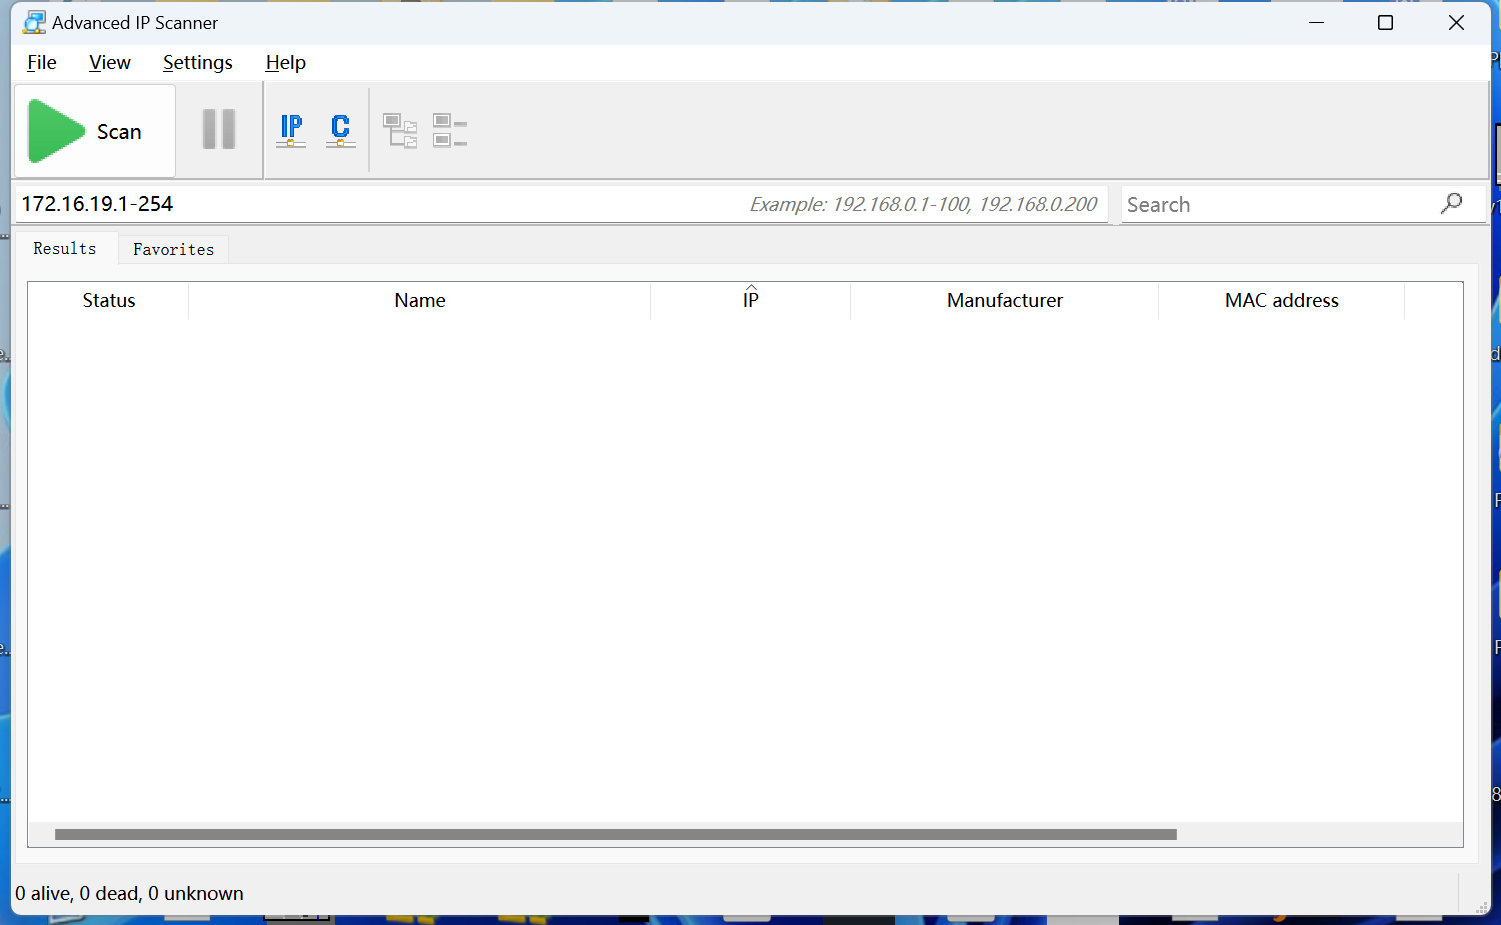
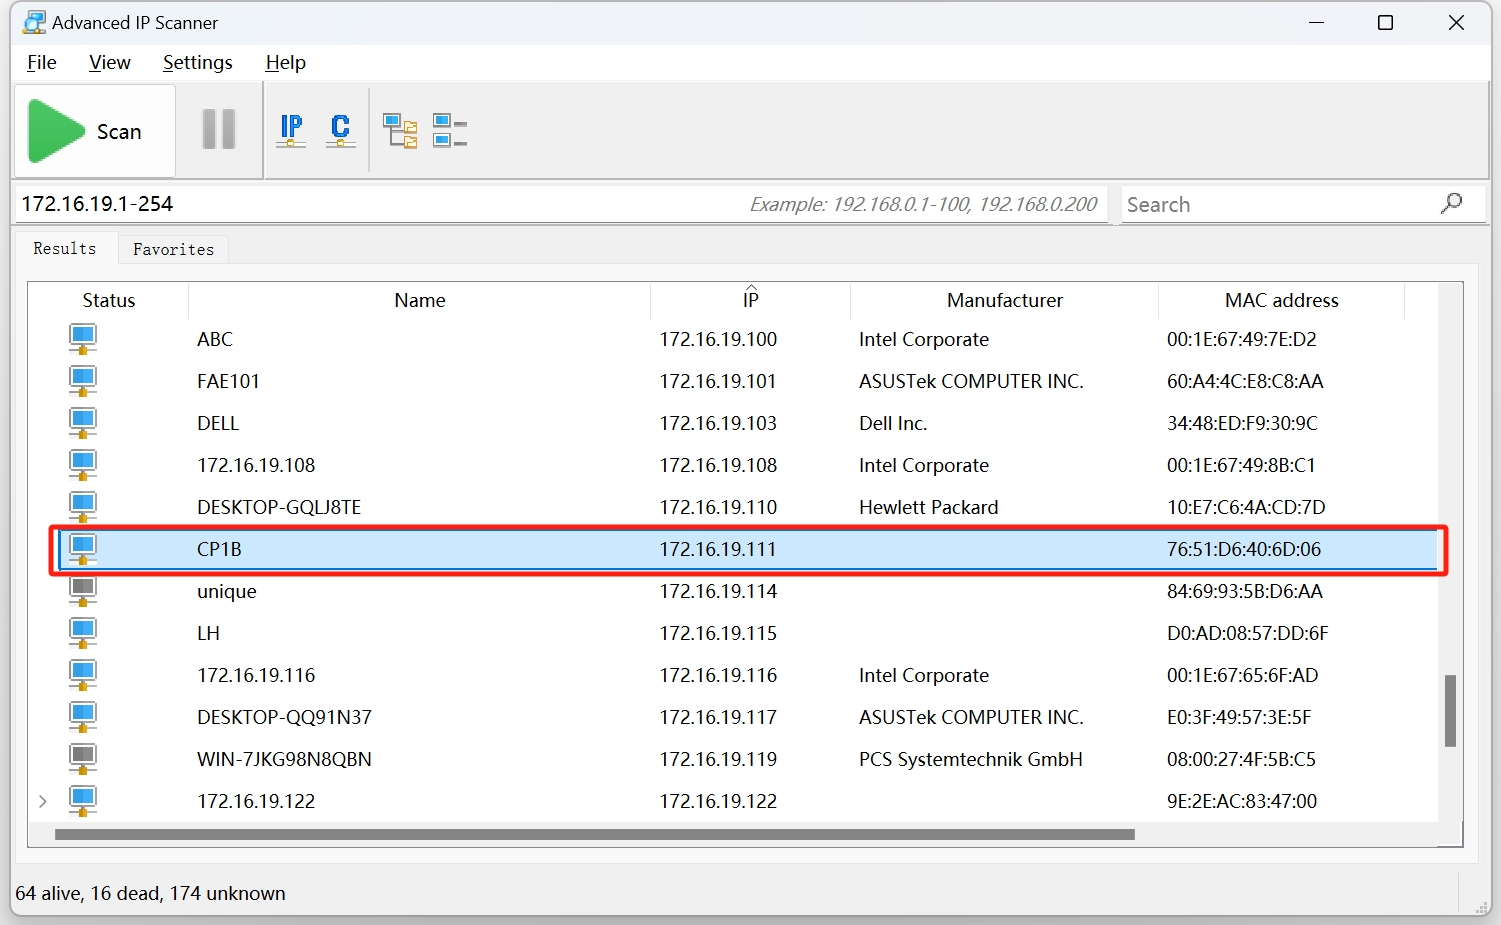
change some picture

diff --git a/cp1b/TM-CP1B.md b/cp1b/TM-CP1B.md
@@ -1,32 +1,36 @@
 # TM-CP1B Quick Start Guide
 <div align=center>  <img src=".\image\image.png" width=70%></div>
 
+## Login steps
 - Connect the power and plug in the network cable
     -   The power supply range is 9V-36V, with the positive terminal near the LED end. <br>Note: Incorrect polarity can cause damage to the machine.
-        <div align=left>  <img src=".\image\image-1.png" width=40%></div>
+        <div align=center>  <img src=".\image\image-1.png" width=80%></div>
 
     -   The default network connection method of the machine is DHCP to automatically obtain an IP address.<br> 
         After the network is connected normally, the two indicator lights on the network port will light up simultaneously.
 - Obtain the IP address of the machine<br>
     -   Use LAN IP address scanning software [Advanced_IP_Scanner](https://download.advanced-ip-scanner.com/download/files/Advanced_IP_Scanner_2.5.4594.1.exe) to obtain all scanned LAN IP addresses.
-    -   After downloading and installing the software, open the software and you will see the following interface. Click Scan to start scanning.
-        <div align=left>  <img src=".\image\image-2.png" width=80%></div>
+    -   After downloading and installing the software, open the software and you will see the following interface. Click Scan to start scanning.The IP address corresponding to the "CP1B" device is the actual IP address of the machine.
+
+
+        <div align=center>  <img src=".\image\image-2.png" width=80%></div>
 
     -   The machine with the device name coolpi in the scanning results corresponds to the DHCP address of the machine.
 
 - Login device<br>
     -   Enter the following link in the browser to enter the login interface:<br>
         https://your_ipaddress:9090/<br>  
-        Replace 'your_ipaddress' with the actual IP address of the machine.<br>  
-        <div align=left>  <img src=".\image\image-5.png" width=80%></div>
+        Replace "your_ipaddress" with the actual IP address of the machine.<br>  
+        <div align=center>  <img src=".\image\image-5.png" width=80%></div>
 
-    -   Enter your username and password, then click login.<br> The default username for the machine is admin, and the password is admin.
-        <div align=left>  <img src=".\image\image-6.png" width=80%></div>
+    -   Enter your username and password, then click login.<br> The default username for the machine is "admin", and the password is "admin".
+        <div align=center>  <img src=".\image\image-6.png" width=80%></div>
 
     -   Click on the terminal to enter the shell interface, where you can update various devices of the system or operating system.
-        <div align=left>  <img src=".\image\image-8.png" width=80%></div>
+        <div align=center>  <img src=".\image\image-8.png" width=80%></div>
 
-- Interface operation
+## Interface operation
+- Interface
     -   The correspondence between ttySx device nodes and interfaces.
         
         ttyS0 -- LORA
@@ -61,25 +65,66 @@
 
     -   LORA(To be updated)
 
-- Common problems and solutions
-    -   How to change default password？
+## Update the firmware
+- Download firmware and upgrade tools from Baidu Cloud or OneDrive.
+<div align=center>  <img src=".\image\0000.png" width=60%></div>
+
+- Connect the USB port of CP1b to the computer.
+- Install USB driver using the DriveAssitant-v5.12 tool.
+<div align=center>  <img src=".\image\0001.png" width=60%></div>
+
+- Press and hold the REC button on the machine, then turn on the power and the machine will enter MASKROM mode.
+<div align=center>  <img src=".\image\0002.png" width=60%></div>
+
+- Open SocToolKit tool, load firmware and upgrade.
+<div align=center>  <img src=".\image\0003.png" width=60%></div>
+
+## Compile and update the kernel
+  - Synchronize kernel code and compile
+    ```
+    git clone https://github.com/coolpi-george/coolpi-kernel.git
+    git checkout linux-5.10-gen-rkr8
+    ./build-kernel.sh
+    sudo ./build-fatboot.sh
+    ``` 
+  - update kernel
+  
+    After compilation,the kernel root directory will generate coolpi-boot.img. 
+
+    Press and hold the REC button to power on, and the machine enters maskrom mode.
+
+    
+
+    As shown in the following figure, load the kernel file and burn it. 
+    <div align=center>  <img src=".\image\0004.png" width=60%></div>    
+
+    If the kernel updates the. ko file, use the following command to synchronize after entering the system
+    ```
+    sudo rm /lib/modules/5.10.209/ -R
+    sudo tar -zxvf /boot/firmware/modules.tar.gz -C /lib
+    sync
+    ```     
+
+## Common problems and solutions
+
+  -  How to change default password？
         ```
-        usermod -p $(openssl passwd -1 123) admin //Change the admin password to 123
+        sudo passwd admin
         ```
-    -   How to add a new user?
+  -  How to add a new user?
         As shown in the following figure, new users can be added and permissions can be configured through the backend management software.
-        <div align=left>  <img src=".\image\image-9.png" width=80%></div>
-    -   How to connect to WiFi network？
+        <div align=center>  <img src=".\image\image-9.png" width=60%></div>
+  -  How to connect to WiFi network？
         ```
         /*Find available WiFi networks*/
         nmcli dev wifi list
         /*To connect to a WiFi network, you need to replace<SSID>with the network name you want to connect to, and<password>with the password for that network:*/
         nmcli --ask dev wifi connect <SSID> password <password> 
         ```
-    -   Unable to register for 4G network?
+  -  Unable to register for 4G network?
         
         Pay attention to the insertion direction of the SIM card as shown in the figure below, with the notch facing outward.
-        <div align=left>  <img src=".\image\sim.png" width=80%></div>
+        <div align=center>  <img src=".\image\sim.png" width=60%></div>
 
 
   
